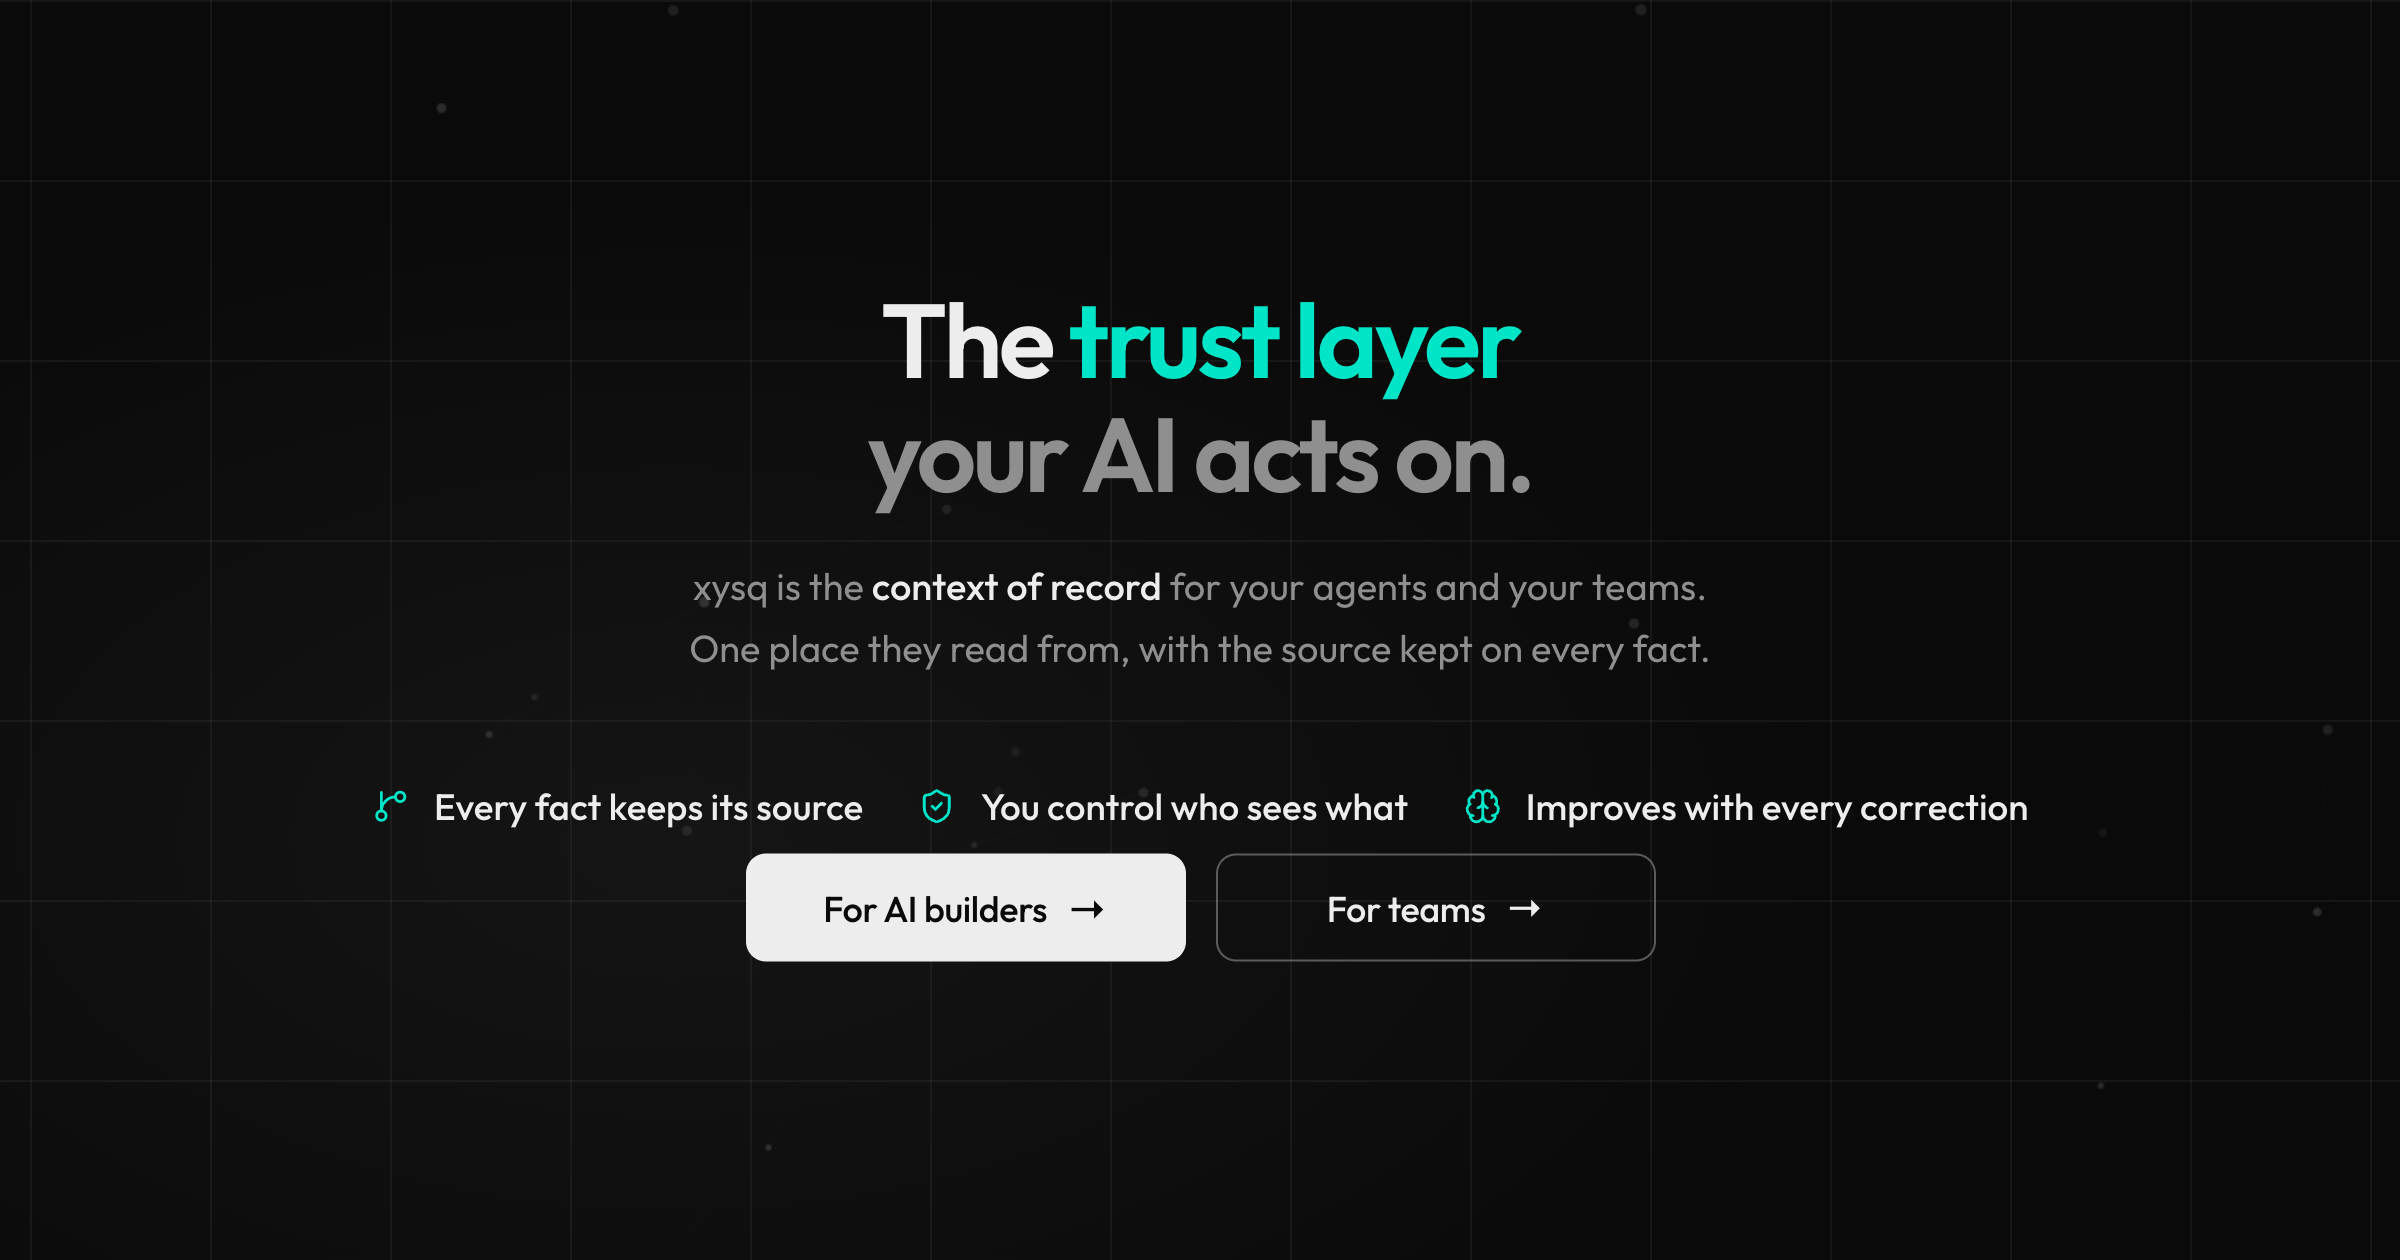
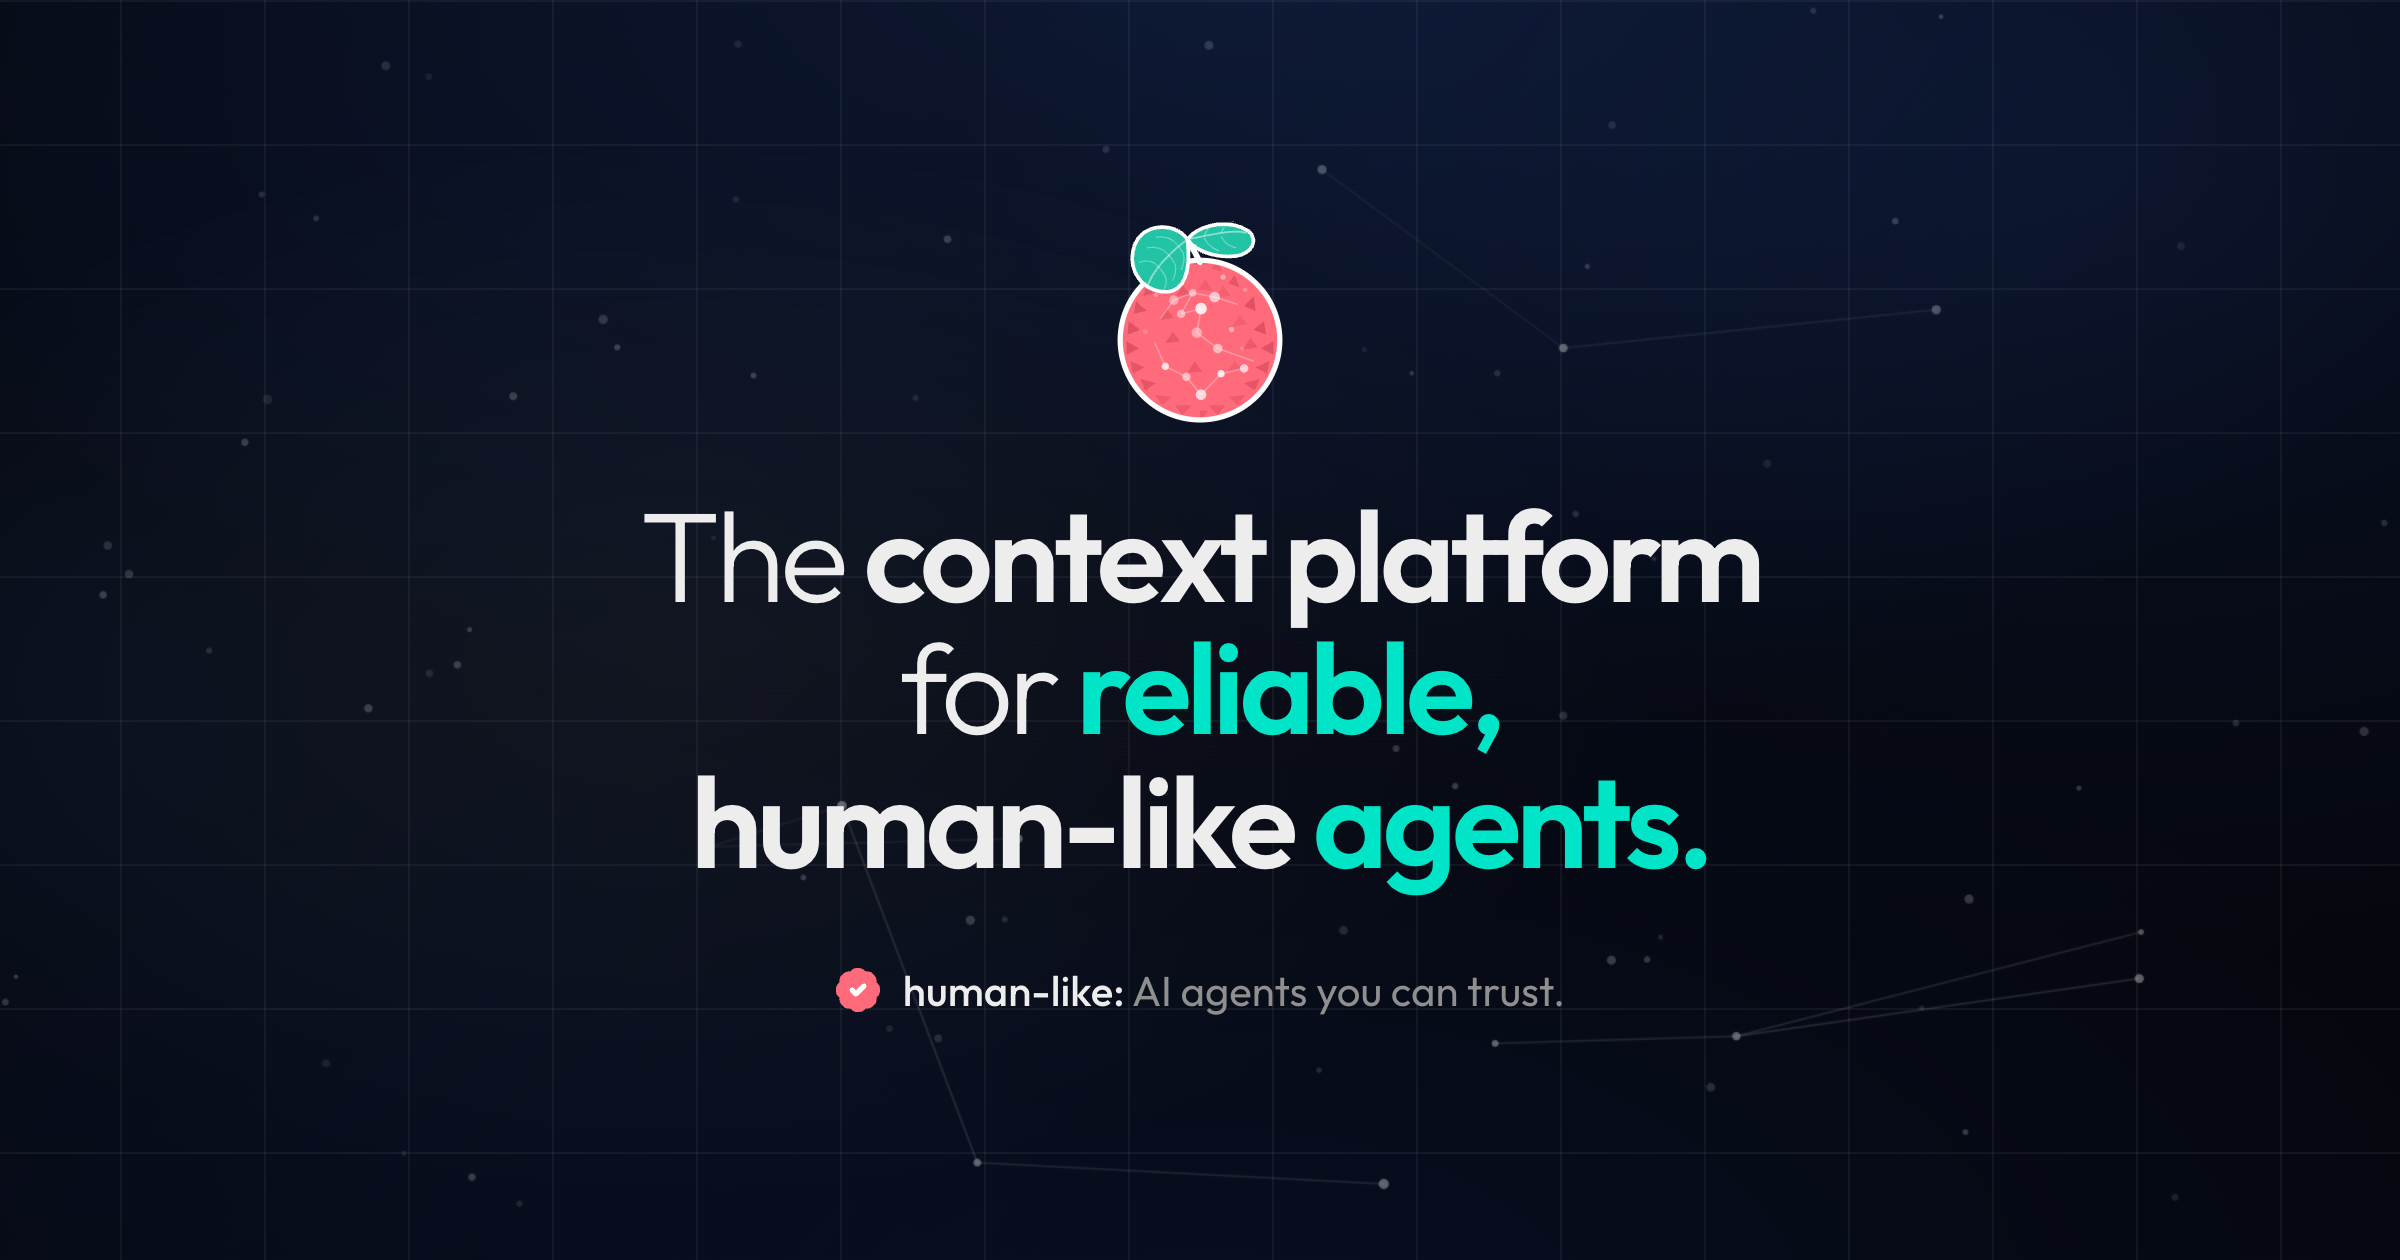
seo: last two pages on the new line; og card re-shot from the dark hero
Blog index and privacy page said "trust layer"; they say context platform
now. The og card is a fresh screenshot of the hero in the dark theme: mark,
three-line headline, the human-like gloss, nothing else. The capture script
hides the rest of the page and scales the copy for a 1200x630 frame. The
og:image URL carries a version query so X, LinkedIn and Slack drop their
cached copy. Also removes a temp capture script that was committed by
mistake.

Claude-Session: https://claude.ai/code/session_01FsG2p89Jh7JamhCCr7h2ia

diff --git a/src/pages/BlogIndexPage.jsx b/src/pages/BlogIndexPage.jsx
@@ -27,7 +27,7 @@ export default function BlogIndexPage() {
     <>
       <SEO
         title="Blog"
-        description="Notes from the team building xysq, the trust layer for AI agents and teams."
+        description="Notes from the team building xysq, the context platform for reliable, human-like agents."
         path="/blog"
         schema={[schema, breadcrumbSchema([
           { name: 'Home', item: '/' },
@@ -39,7 +39,7 @@ export default function BlogIndexPage() {
       <main className="blog-index">
         <header className="blog-index__hero">
           <h1>Blog</h1>
-          <p>Notes from the team building xysq, the trust layer for AI agents and teams.</p>
+          <p>Notes from the team building xysq, the context platform for reliable, human-like agents.</p>
         </header>
         <BlogPostList posts={posts} />
       </main>

diff --git a/src/pages/PrivacyPage.jsx b/src/pages/PrivacyPage.jsx
@@ -36,7 +36,7 @@ export default function PrivacyPage() {
 
           <Section n="1" title="Who We Are">
             <p>
-              xysq ("we", "us", "our") is a trust layer for AI agents and teams. We operate the
+              xysq ("we", "us", "our") is a context platform for AI agents and teams. We operate the
               service at <strong>xysq.ai</strong> and the API at <strong>api.xysq.ai</strong>. To
               contact us about privacy, email <a href={`mailto:${CONTACT_EMAIL}`}>{CONTACT_EMAIL}</a>.
             </p>

diff --git a/src/components/SEO.jsx b/src/components/SEO.jsx
@@ -1,7 +1,8 @@
 import { Helmet } from 'react-helmet-async'
 
 const BASE_URL = 'https://xysq.ai'
-const DEFAULT_IMAGE = `${BASE_URL}/og-image.png`
+// the query is a cache-buster for X, LinkedIn and Slack; bump it when the card changes
+const DEFAULT_IMAGE = `${BASE_URL}/og-image.png?v=2026-09`
 
 export default function SEO({
   title,
